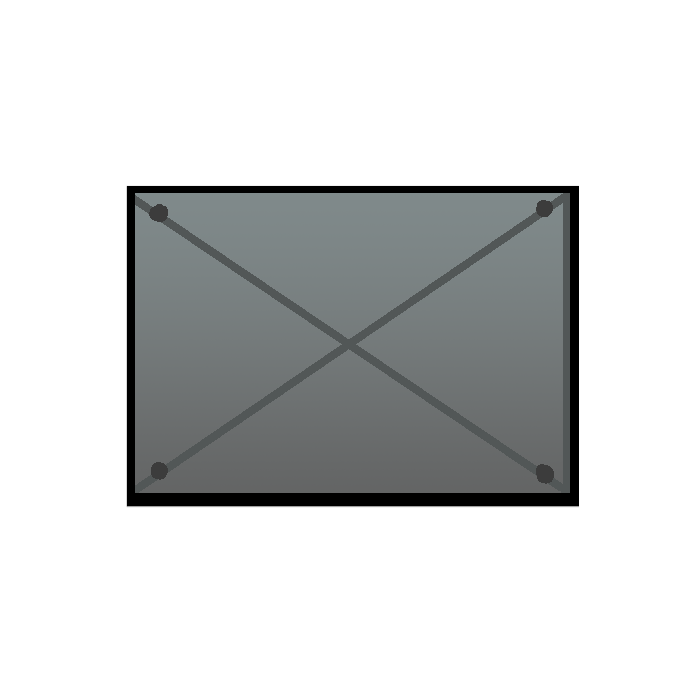
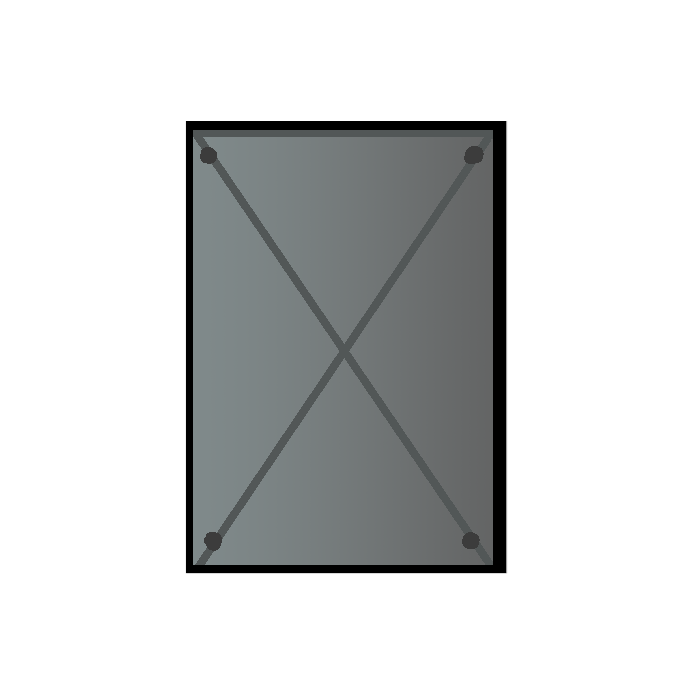
yeah i give up

Changed region(s): [[0.18, 0.15, 0.84, 0.84], [0.57, 0.54, 0.63, 0.57], [0.54, 0.57, 0.57, 0.63]]

diff --git a/Logic Project/Assets/Scripts/CardScene/DraggableCard.cs b/Logic Project/Assets/Scripts/CardScene/DraggableCard.cs
@@ -1,4 +1,5 @@
 using UnityEngine;
+using UnityEngine.UI;
 using UnityEngine.EventSystems;
 
 public class DraggableCard : MonoBehaviour,
@@ -9,6 +10,7 @@ public class DraggableCard : MonoBehaviour,
     public Transform originalParent;
     public Vector2 originalPosition;
     public Transform dragLayer;
+    public Image avatar;
 
     public bool isPlaced = false;
     public bool wasDropped = false;
@@ -25,6 +27,7 @@ public class DraggableCard : MonoBehaviour,
     {
 
         Debug.Log("BEGIN DRAG");
+        avatar.raycastTarget = false;
         audioManager?.playpickupSFX();
         originalParent = transform.parent;
         originalPosition = rectTransform.anchoredPosition;
@@ -59,6 +62,7 @@ public class DraggableCard : MonoBehaviour,
     public void OnEndDrag(PointerEventData eventData)
     {
         audioManager?.playDropSFX();
+        avatar.raycastTarget = true;
         canvasGroup.blocksRaycasts = true;
         canvasGroup.alpha = 1f;
         rectTransform.rotation = Quaternion.identity;

diff --git a/Logic Project/Assets/Scripts/CardScene/Inventory/InventorySlot.cs b/Logic Project/Assets/Scripts/CardScene/Inventory/InventorySlot.cs
@@ -18,6 +18,16 @@ public class InventorySlot : MonoBehaviour
         item = GetComponentInChildren<InventoryItem>();
     }
 
+    void Start()
+    {
+        if (currentItem == null)
+        {
+            Color c = icon.color;
+            c.a = 0f;
+            icon.color = c;
+        }
+    }
+
     public void SetItem(ItemData itemData)
     {
         if (itemData == null)
@@ -30,6 +40,9 @@ public class InventorySlot : MonoBehaviour
         durability = currentItem.maxDurability;
 
         icon.enabled = true;
+        Color c = icon.color;
+        c.a = 1f;
+        icon.color = c;
         icon.sprite = itemData.icon;
 
         item.currentSlot = this;
@@ -44,6 +57,10 @@ public class InventorySlot : MonoBehaviour
     public void RemoveItem()
     {
         currentItem = null;
+
+        Color c = icon.color;
+        c.a = 0f; 
+        icon.color = c;
 
         icon.sprite = null;
         icon.enabled = false;

diff --git a/Logic Project/Assets/Scripts/CardScene/CharacterFollow.cs b/Logic Project/Assets/Scripts/CardScene/CharacterFollow.cs
@@ -1,10 +1,12 @@
 using UnityEngine;
+using UnityEngine.UI;
 
 public class CharacterFollower : MonoBehaviour
 {
     public RectTransform playerCard;
     RectTransform rect;
     public Vector2 offset;
+    public Image characterImage;
 
     void Awake()
     {
@@ -17,5 +19,10 @@ public class CharacterFollower : MonoBehaviour
         {
             rect.position = (Vector2)playerCard.position + offset;
         }
+    }
+
+    public void SetRaycast(bool enabled)
+    {
+        characterImage.raycastTarget = enabled;
     }
 }
